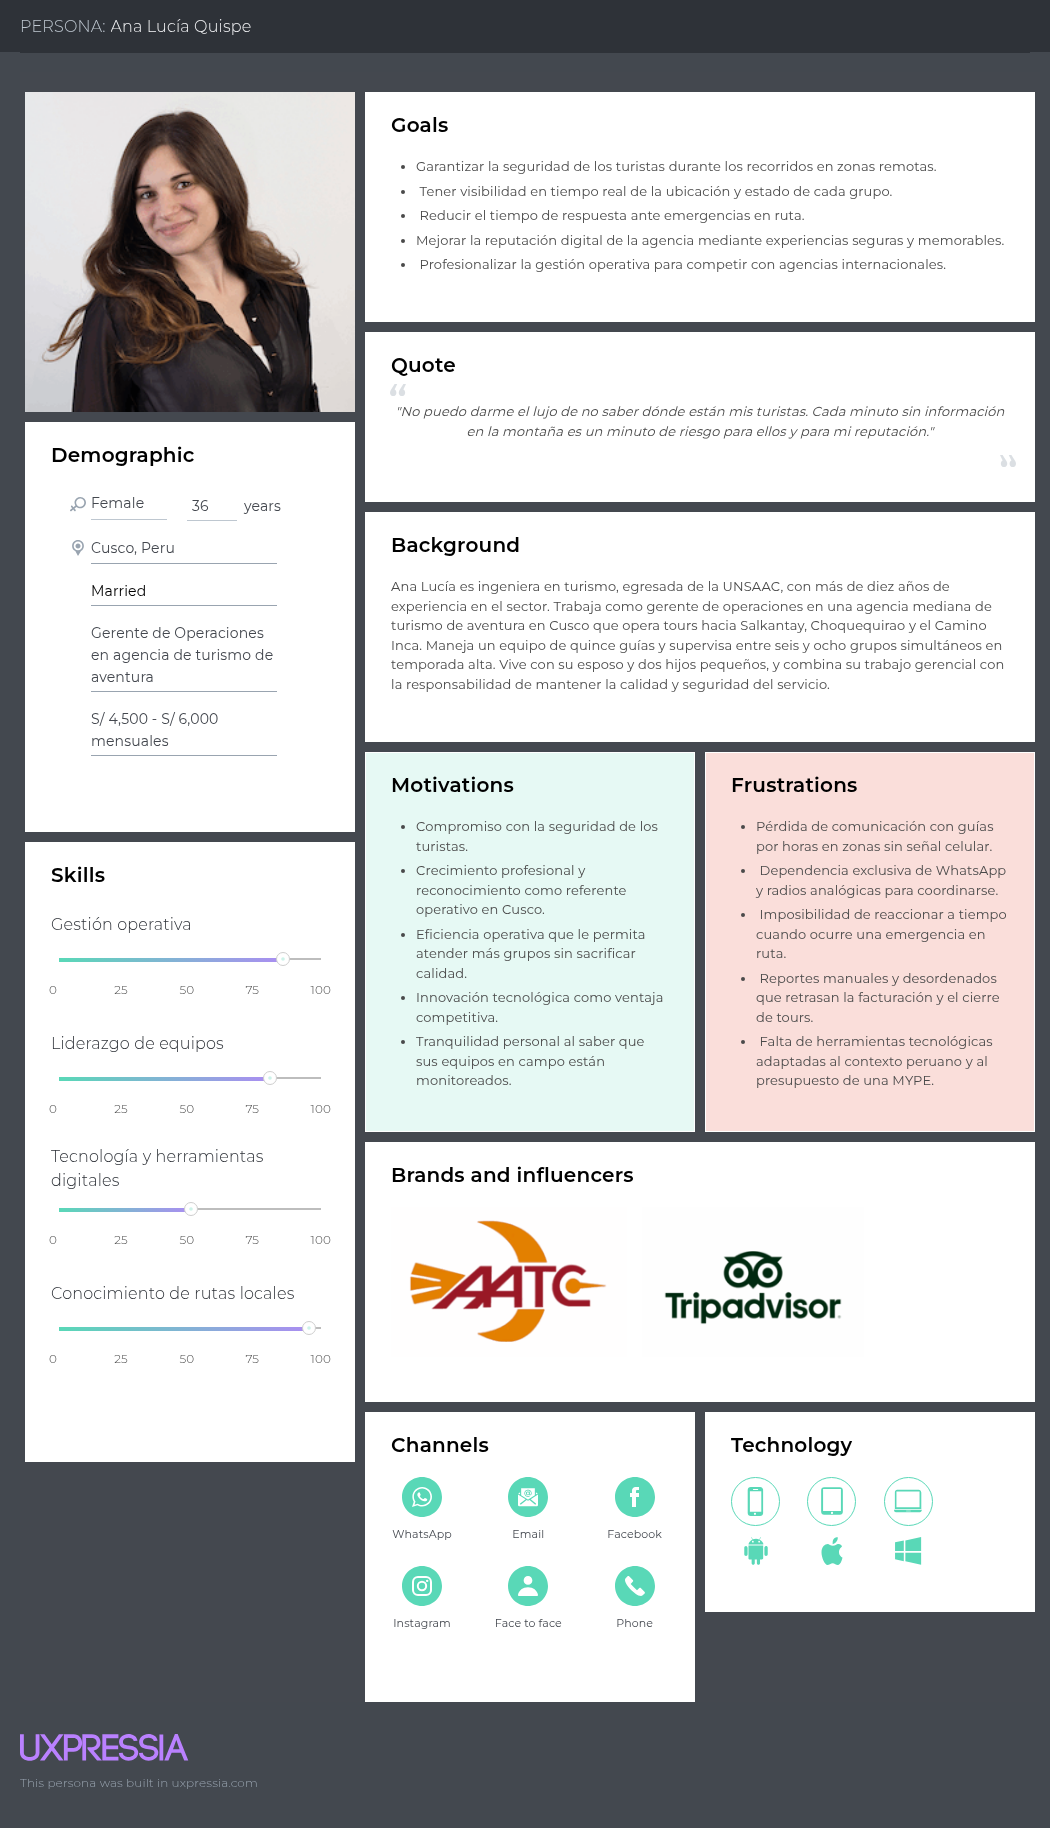
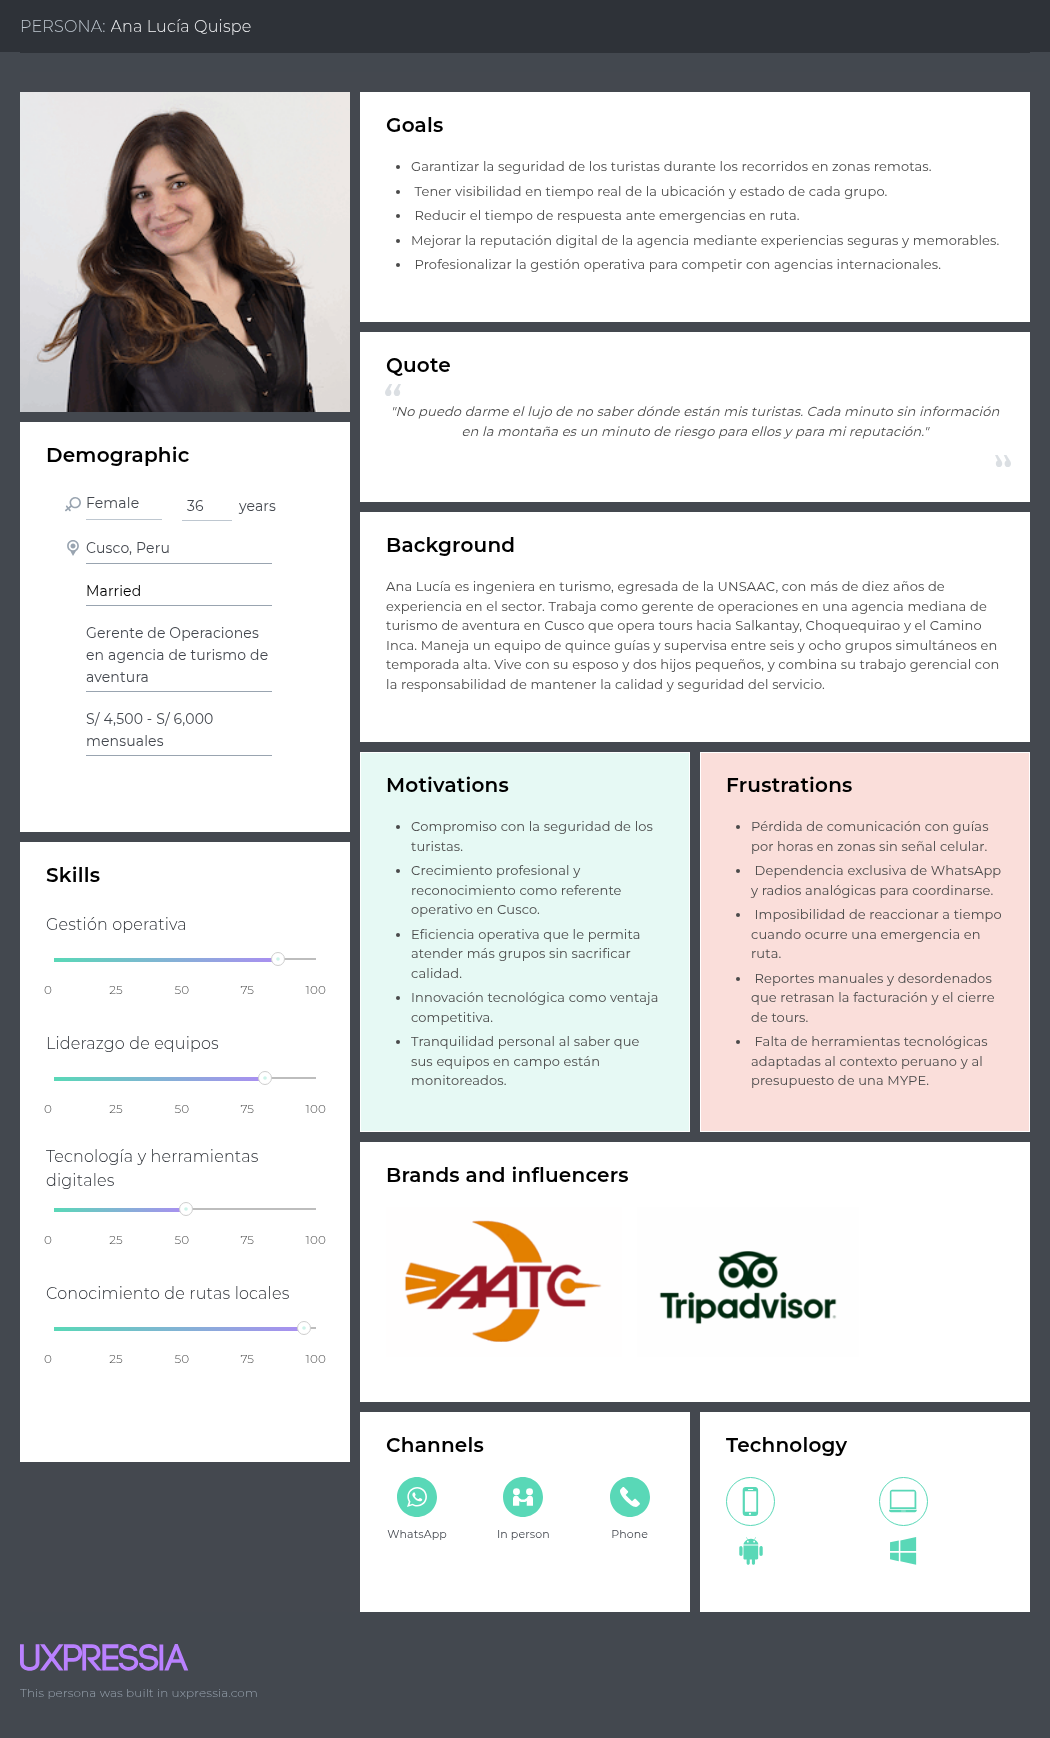
docs: update user persona documentation

diff --git a/README.md b/README.md
@@ -716,7 +716,7 @@ Las entrevistas constituyen la principal técnica de investigación cualitativa 
 
 ![Entrevista-2](assets/images/Entrevista2.png)
 
-**Resumen:** Gabriela, aficionada a conocer lugares nuevos y realizar actividades fuera de lo común, suele organizar expediciones como escalada en nevados con amigos del trabajo aprovechando fechas especiales o promociones en redes sociales. Utiliza principalmente Google Maps para ubicarse y comparte su ruta con sus padres. Durante su última experiencia en el nevado Rajuntay experimentó miedo y dificultades respiratorias al quedarse rezagada, notando que los mecanismos de seguridad de la agencia eran deficientes y los guías estaban muy distanciados para atender emergencias a tiempo. Le preocupa enormemente la falta de señal en zonas remotas, ya que esto le impidió comunicarse con la agencia cuando una de sus compañeras necesitó ayuda médica. Aunque el uso de tecnología para emergencias podría serle útil, muestra una fuerte desconfianza respecto a la privacidad de sus datos, temiendo que las agencias hagan un mal uso de su información personal. Su dispositivo principal es el celular y su canal digital preferido es Instagram para descubrir actividades de aventura.
+**Resumen:** Gabriela, aficionada a conocer lugares nuevos y realizar actividades fuera de lo común, suele organizar expediciones como escalada en nevados con amigos del trabajo aprovechando fechas especiales o promociones en redes sociales. Utiliza principalmente Google Maps para ubicarse y comparte su ruta con sus padres. Durante su última experiencia en el nevado Rajuntay experimentó miedo y dificultades respiratorias al quedarse rezagada, notando que los mecanismos de seguridad de la agencia eran deficientes y los guías estaban muy distanciados para atender emergencias a tiempo. Le preocupa enormemente la falta de señal en zonas remotas, ya que esto le impidió comunicarse con la agencia cuando una de sus compañeras necesitó ayuda médica. Aunque el uso de tecnología para emergencias podría serle útil, muestra una fuerte desconfianza respecto a la privacidad de sus datos, temiendo que las agencias hagan un mal uso de su información personal. Su dispositivo principal es el celular iPhone y su canal digital preferido es Instagram para descubrir actividades de aventura.
 
 ---
 
@@ -844,13 +844,13 @@ Las principales características consideradas para la construcción de los User 
  
 Se ha elaborado una ficha de User Persona por cada segmento objetivo, utilizando la herramienta UXPressia siguiendo las mejores prácticas de la industria. El primer User Persona, Ana Lucía Quispe, representa al segmento de agencias y operadores de turismo de aventura, mientras que el segundo, Marco Rodriguez, representa al segmento de turistas de aventura nacionales y extranjeros que contratan los servicios de estas agencias.
  
-**User Persona 1: Ana Lucía Quispe**
+**User Persona 1: Ana Lucía Quispe - Segmento de Dueños o Responsables de Agencias de Turismo de Aventura**
  
 ![](assets/images/User-Persona1.png)
 
 Representa al segmento de agencias y operadores de turismo de aventura. Este arquetipo encarna a la gerente de operaciones de una agencia mediana en Cusco, responsable de coordinar guías, supervisar tours simultáneos y garantizar la seguridad de los grupos en zonas remotas. Sus motivaciones giran en torno a la profesionalización operativa, la reducción del tiempo de respuesta ante emergencias y la diferenciación competitiva mediante el uso de tecnología. Sus principales frustraciones se relacionan con la pérdida de comunicación con los guías por horas, la dependencia de WhatsApp y radios analógicas, y la ausencia de herramientas digitales adaptadas al contexto y al presupuesto de una micro o pequeña empresa peruana.
 
-**User Persona 2: Marco Rodriguez**
+**User Persona 2: Marco Rodriguez - Segmento de Turistas de Aventura**
  
 ![](assets/images/User-Persona2.png)
 
